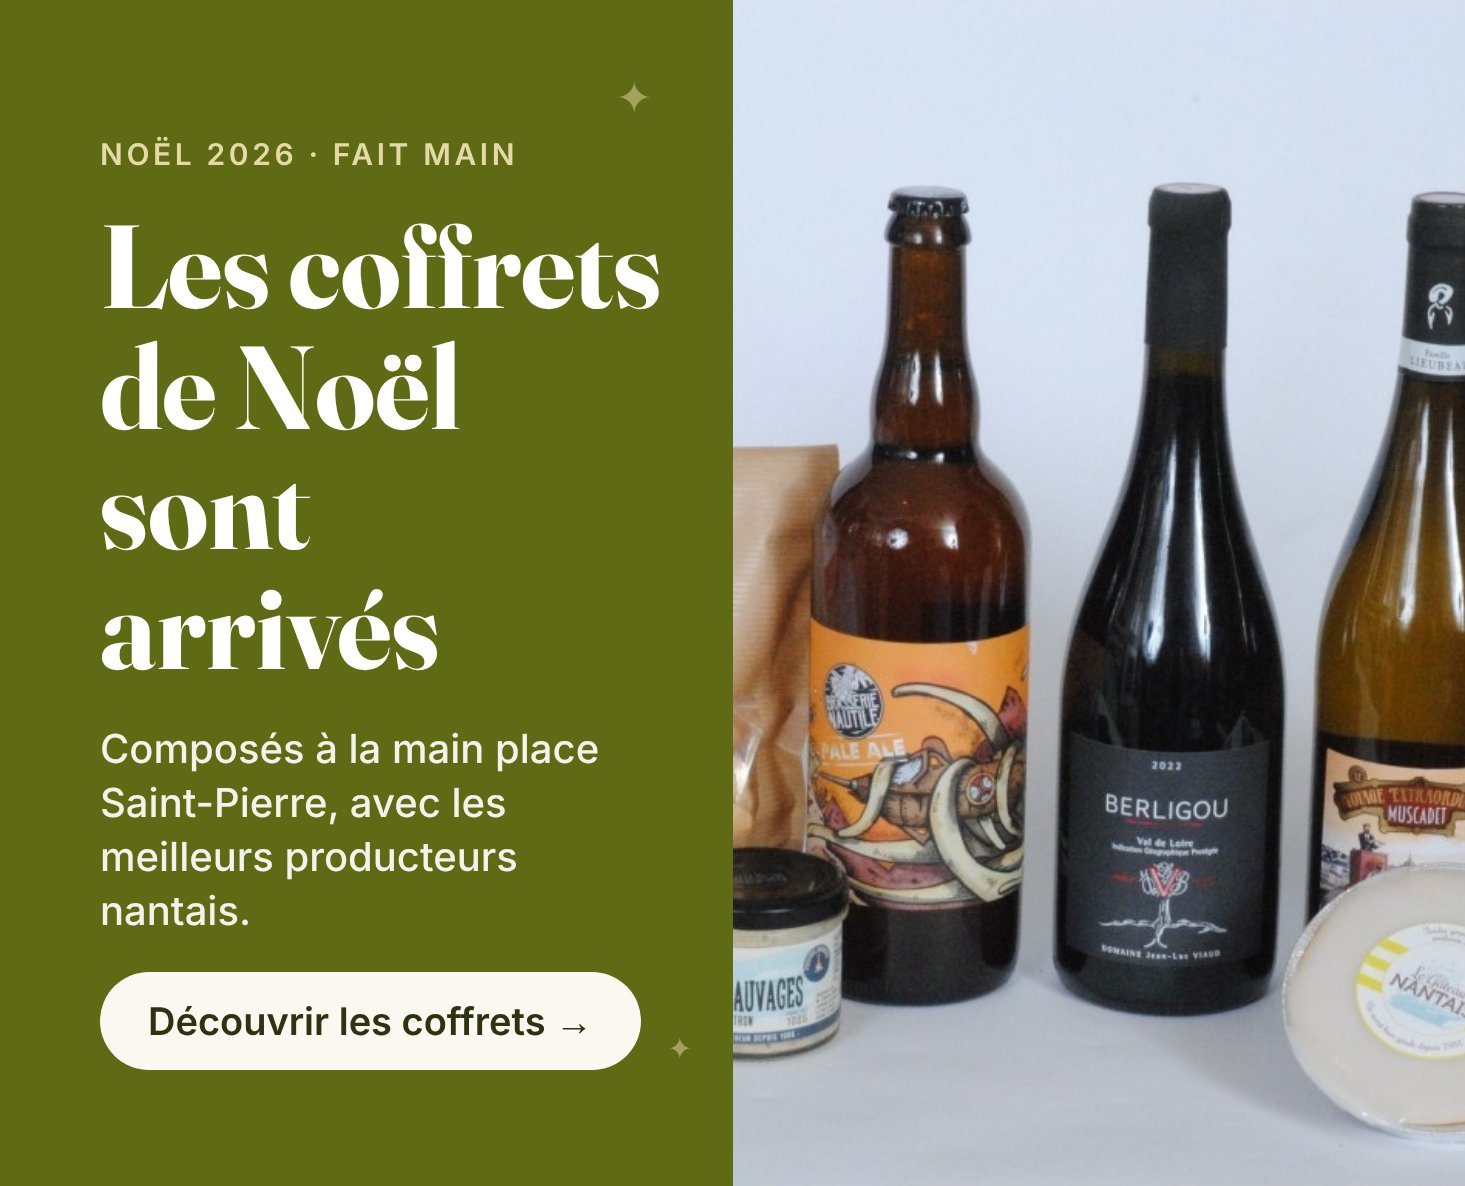
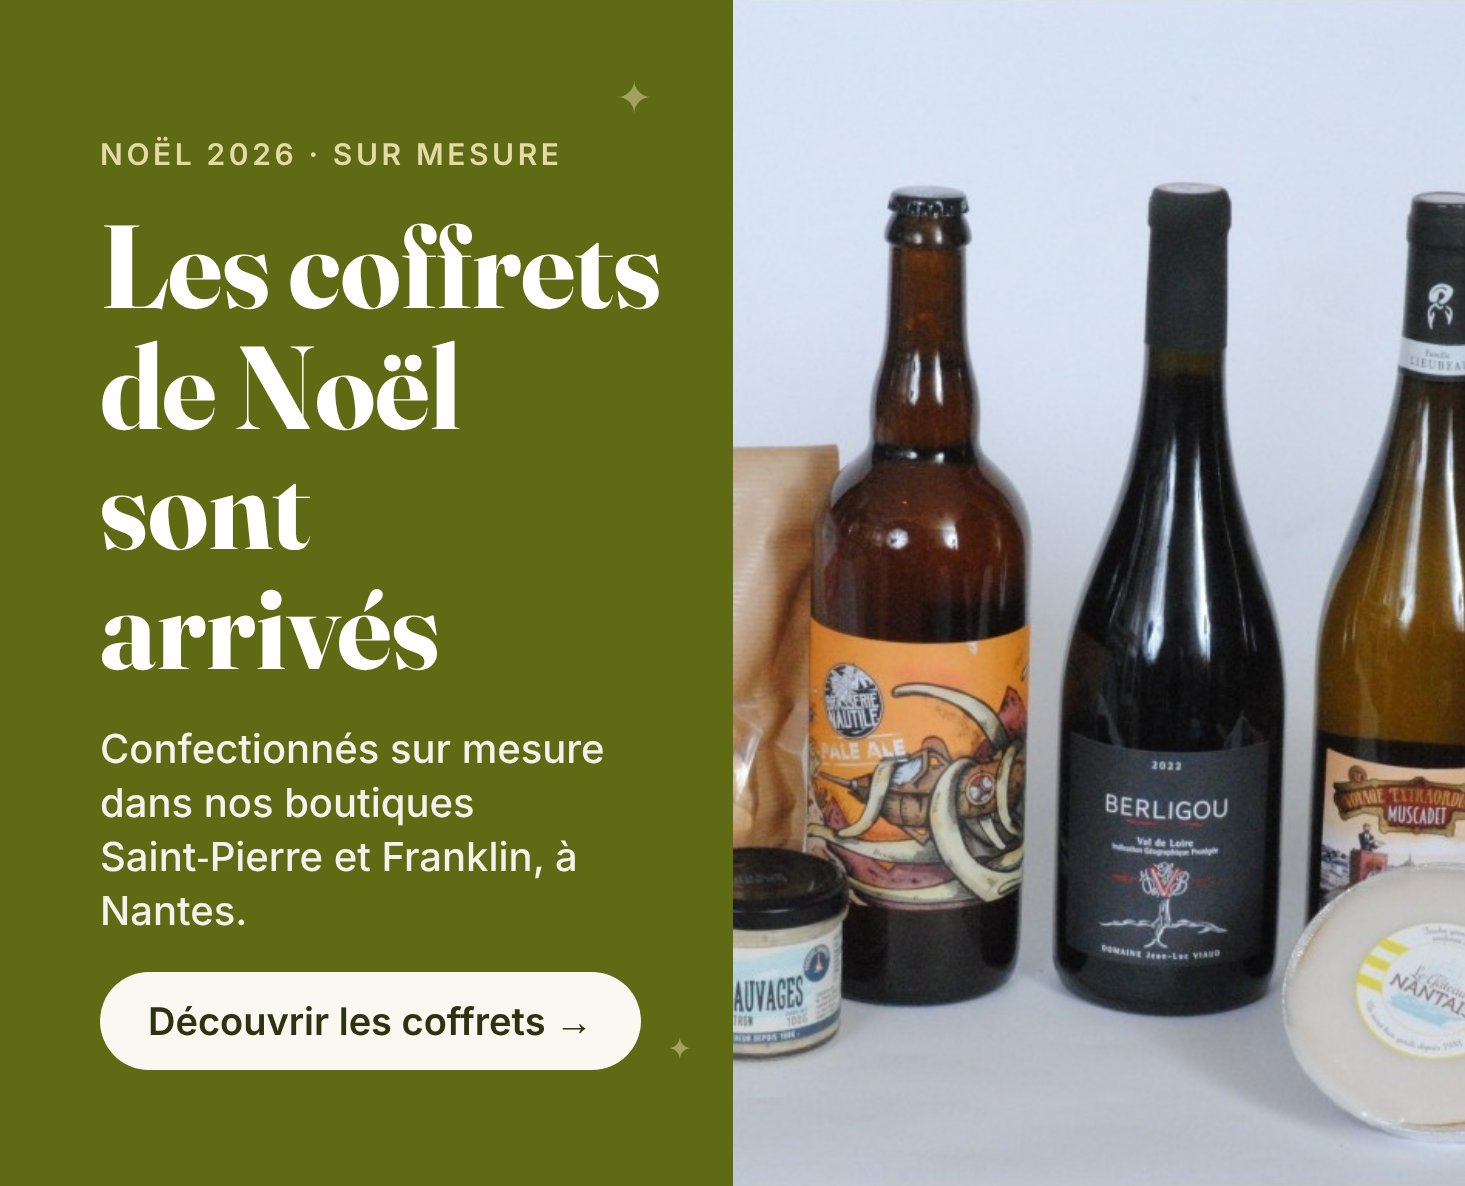
ABC Terroirs : textes de Noël corrigés (catégorie, diapositive, bandeau)
La catégorie Noël affichait le texte de la fête des pères. Mention
des deux boutiques (Saint-Pierre et Franklin) et du sur mesure.

Claude-Session: https://claude.ai/code/session_01P1wrBz23fxcbpQLqqeoHW8

Changed region(s): [[0.0614, 0.6239, 0.43, 0.7799], [0.215, 0.1248, 0.3686, 0.156]]

diff --git a/abc-terroirs/design/module/abcdesign/views/js/abc-v116.js b/abc-terroirs/design/module/abcdesign/views/js/abc-v116.js
@@ -104,7 +104,7 @@
         '<div class="abc-cta-band__inner">' +
           '<div class="abc-cta-band__text">' +
             '<h2>Un coffret sur mesure, pour offrir ou pour votre entreprise ?</h2>' +
-            '<p>Dites-nous votre budget et vos envies : nous le composons à la main, place Saint-Pierre à Nantes.</p>' +
+            '<p>Dites-nous votre budget et vos envies : nous le confectionnons sur mesure dans nos boutiques de la place Saint-Pierre et de la rue Franklin, à Nantes.</p>' +
           '</div>' +
           '<div class="abc-cta-band__actions">' +
             '<a class="abc-btn abc-btn--light" href="' + BASE + 'nous-contacter">Demander un devis</a>' +

diff --git a/abc-terroirs/design/module/abcdesign/abcdesign.php b/abc-terroirs/design/module/abcdesign/abcdesign.php
@@ -17,7 +17,7 @@ class Abcdesign extends Module
     {
         $this->name = 'abcdesign';
         $this->tab = 'front_office_features';
-        $this->version = '1.1.5';
+        $this->version = '1.1.6';
         $this->author = 'ABC Terroirs';
         $this->need_instance = 0;
         $this->ps_versions_compliancy = ['min' => '1.7.0.0', 'max' => _PS_VERSION_];
@@ -48,7 +48,7 @@ class Abcdesign extends Module
         );
         $this->context->controller->registerJavascript(
             'abcdesign-js',
-            'modules/' . $this->name . '/views/js/abc-v115.js',
+            'modules/' . $this->name . '/views/js/abc-v116.js',
             ['position' => 'bottom', 'priority' => 1000]
         );
     }

diff --git a/abc-terroirs/journal-modifications.md b/abc-terroirs/journal-modifications.md
@@ -137,6 +137,9 @@ Les mots de moins de 3 lettres sont ignorés par la recherche, et la longueur mi
 | 38 | Emojis 📞 (bandeau) et 🎁 (encart fiche produit) (module 1.1.4) | Retirés. Le bouton devient « Appeler le 02 40 89 76 26 ». Script renommé `abc-v114.js`. |
 | 39 | Catalogue → Catégories → n° 30, 31, 32 et 172 → **image de couverture** (vignettes des sous-catégories de « Coffrets gourmands ») | Pouces levés, homme en costume, « Aucune image disponible » → photos de coffrets : boîte sucrette Tour LU (< 25 €), Nantes surprenant (25 à 50 €), Voyage extraordinaire (> 50 €), Folie foie gras (Noël). Anciennes images : `sauvegardes/images-categories/` ; nouvelles : `images-pretes/categories/`. |
 | 40 | Module 1.1.5 + images des sous-catégories | Le bandeau vert « Un coffret sur mesure » remontait derrière « Meilleures ventes » sur mobile : il est maintenant toujours sous le contenu. L'effet « fond harmonisé » qui assombrissait les photos produits est supprimé. Les blocs budget sont cadrés pareil (flèche en haut à droite, titres sur une ligne). Les vignettes de sous-catégories sont éclaircies (fond gris → presque blanc). Style renommé `abc-v115.css`. |
+| 41 | Catalogue → Catégories → n° 172 « Idées cadeaux Noël » : nom, description, méta-titre, méta-description | Nom « Idées cadeaux NOEL ». **Texte de la fête des pères recopié par erreur** (« Découvrez des idées cadeaux originales pour la fête des pères… »). Sauvegarde : `sauvegardes/cat172-avant-texte-noel.json` | Nom « Idées cadeaux Noël » (adresse inchangée) ; texte de Noël : coffrets confectionnés sur mesure dans les boutiques de la place Saint-Pierre et de la rue Franklin, références vins et spiritueux, Spi & Bi, retrait en boutique ou Colissimo, devis entreprises |
+| 42 | Modules → CZ Image slider → diapositive « Coffrets de Noël » : image et légende | « Composés à la main place Saint-Pierre » (ancienne image : `sauvegardes/diapo-noel-v1.jpg`) | « Noël 2026 · Sur mesure » / « Confectionnés sur mesure dans nos boutiques Saint-Pierre et Franklin, à Nantes. » |
+| 43 | Module 1.1.6 : bandeau « Un coffret sur mesure » | « nous le composons à la main, place Saint-Pierre à Nantes » | « nous le confectionnons sur mesure dans nos boutiques de la place Saint-Pierre et de la rue Franklin, à Nantes » |
 
 ## Volontairement non modifié
 
